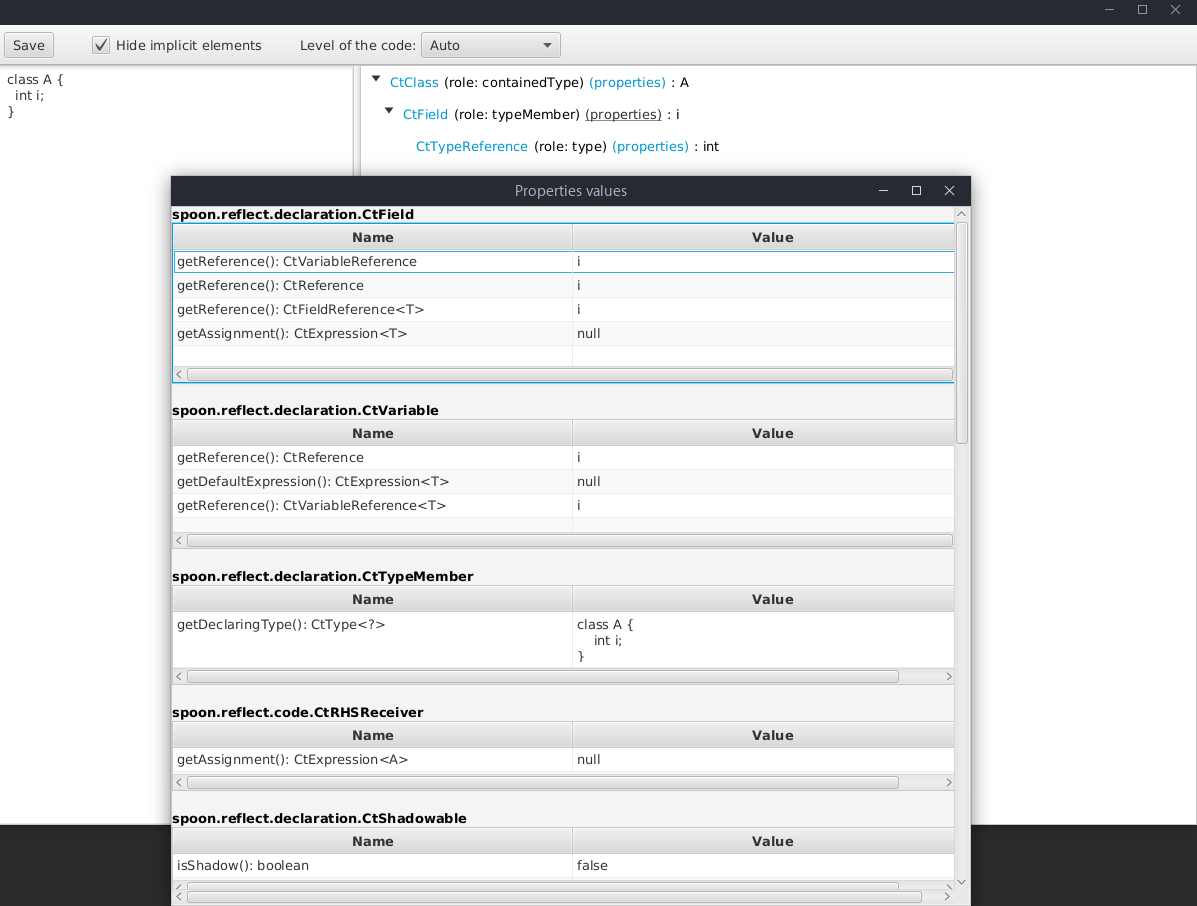
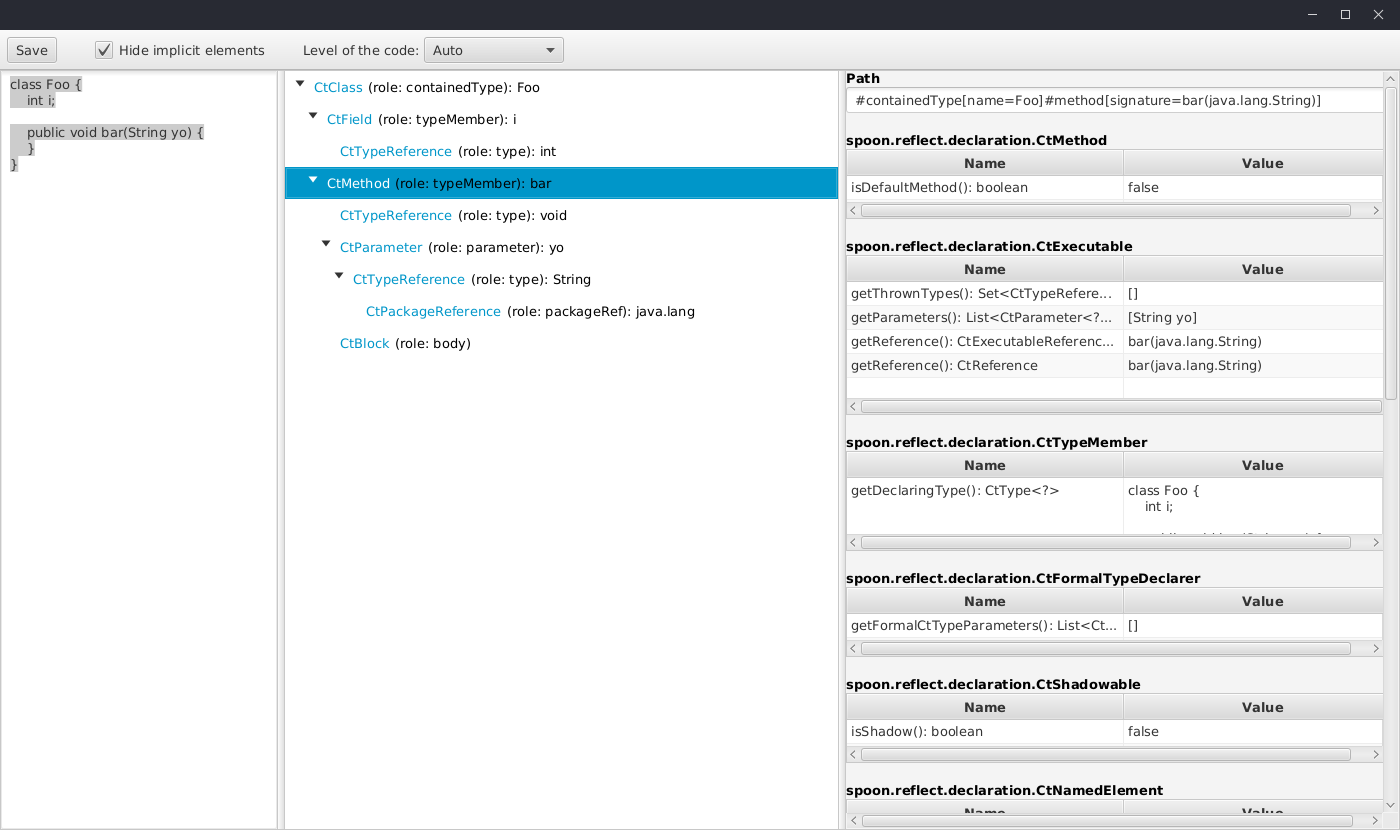
documentation updated

Changed region(s): [[0.0, 0.0, 1.0, 1.0]]

diff --git a/spoon-visualisation/README.md b/spoon-visualisation/README.md
@@ -21,6 +21,7 @@ Then go into the `target/modules` folder and launch: `java --module-path . --add
 - [implicit elements masking](#feature-implicit-elements-masking)
 - [export as text](#feature-export-as-text)
 - [analysis level](#feature-analysis-level)
+- [show properties](#feature-show-properties)
 - [open JavaDoc](#feature-open-javadoc)
 - [one argument to load a Java file](#feature-one-argument-to-load-a-java-file)
 
@@ -69,6 +70,14 @@ The `auto` level tries to detect the level automatically by starting parsing the
 
 ![auto](doc/appAuto.png)
 
+## Feature: Show Properties
+
+When clicking on a tree node, the properties of the corresponding Spoon element are 
+displayed in tables in a dedicated panel.
+The path expression (`CPath`) that permits the selection of the selected Spoon element is 
+displayed at the top of the panel.   
+
+![auto](doc/props.png)
 
 ## Feature: Open Javadoc
 
